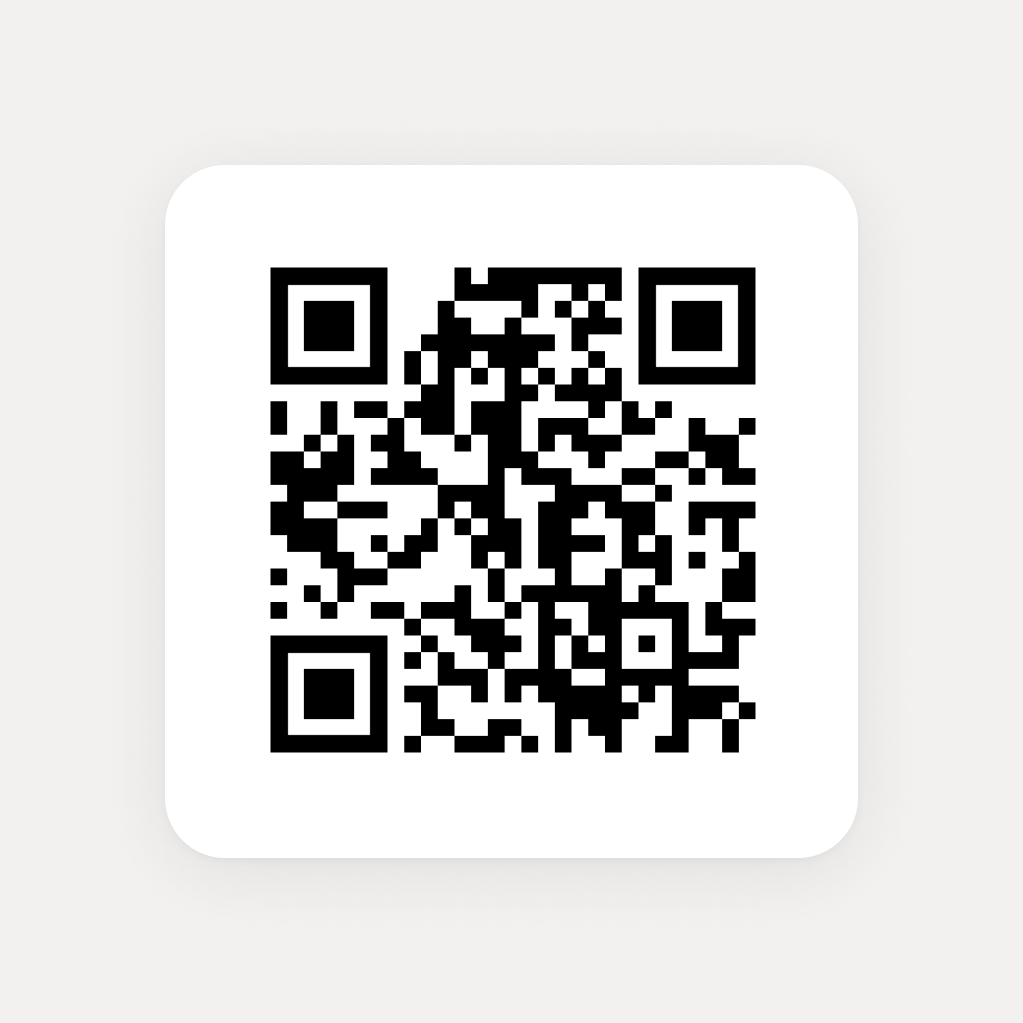
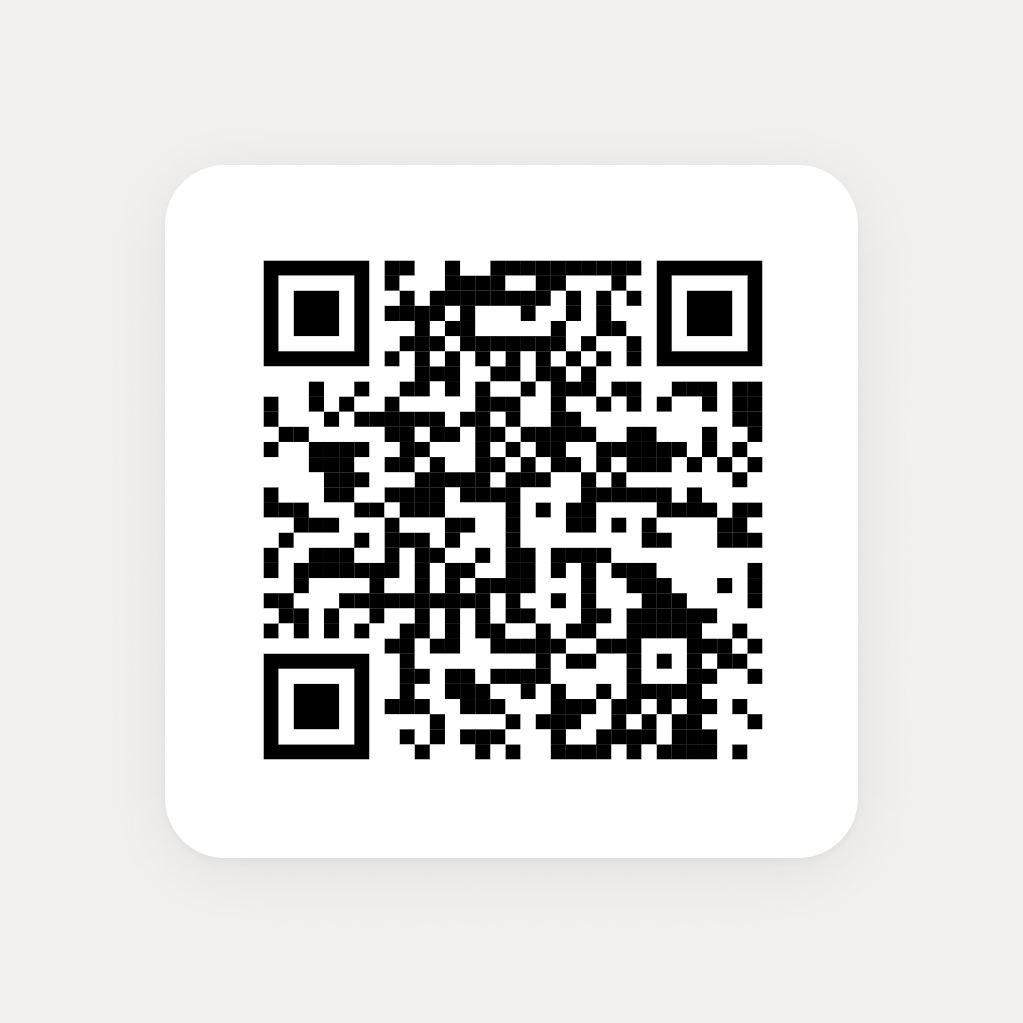
Fix images (#46)

Changed region(s): [[0.2424, 0.2424, 0.7576, 0.7576]]

diff --git a/web/src/App.tsx b/web/src/App.tsx
@@ -26,18 +26,18 @@ function App() {
       <h2>Инструкция для iOS</h2>
       <div className="slider">
         <div className="step">
-          <img src={iosStep1} className="step-icon" alt="Inventory logo" />
+          <img src={iosStep1} className="step-icon" alt="IOS step 1" />
           <div>
             <h3>Шаг 1</h3>
             <p>
-              Зайдите в Safari на avito.ru и нажмите на значок «Поделиться»
+              Зайдите в Safari на m.inventory.romashov.tech и нажмите на значок «Поделиться»
               внизу экрана.
             </p>
           </div>
         </div>
 
         <div className="step">
-          <img src={iosStep2} className="step-icon" alt="Inventory logo" />
+          <img src={iosStep2} className="step-icon" alt="IOS step 2" />
           <div>
             <h3>Шаг 2</h3>
             <p>
@@ -47,7 +47,7 @@ function App() {
         </div>
 
         <div className="step">
-          <img src={iosStep3} className="step-icon" alt="Inventory logo" />
+          <img src={iosStep3} className="step-icon" alt="IOS step 3" />
           <div>
             <h3>Шаг 3</h3>
             <p>
@@ -60,31 +60,27 @@ function App() {
       <h2>Инструкция для Android</h2>
       <div className="slider">
         <div className="step">
-          <img src={androidStep1} className="step-icon" alt="Inventory logo" />
+          <img src={androidStep1} className="step-icon" alt="Android step 1" />
           <div>
             <h3>Шаг 1</h3>
             <p>
-              Наведите камеру телефона на QR-код или скачайте файл по ссылке.
-            </p>
-            <p>
-              Если увидите уведомление безопасности, нажмите «Всё равно скачать»
-              — приложение надежное и безопасное.
+              Наведите камеру телефона на QR-код или откройте m.inventory.romashov.tech в Chrome.
             </p>
           </div>
         </div>
 
         <div className="step">
-          <img src={androidStep2} className="step-icon" alt="Inventory logo" />
+          <img src={androidStep2} className="step-icon" alt="Android step 2" />
           <div>
             <h3>Шаг 2</h3>
             <p>
-              После скачивания найдите файл в загрузках и начните установку.
+              Во всплывающем окне выберете «Установить».
             </p>
           </div>
         </div>
 
         <div className="step">
-          <img src={androidStep3} className="step-icon" alt="Inventory logo" />
+          <img src={androidStep3} className="step-icon" alt="Android step 3" />
           <div>
             <h3>Шаг 3</h3>
             <p>После установки приложение появится на экране смартфона.</p>
